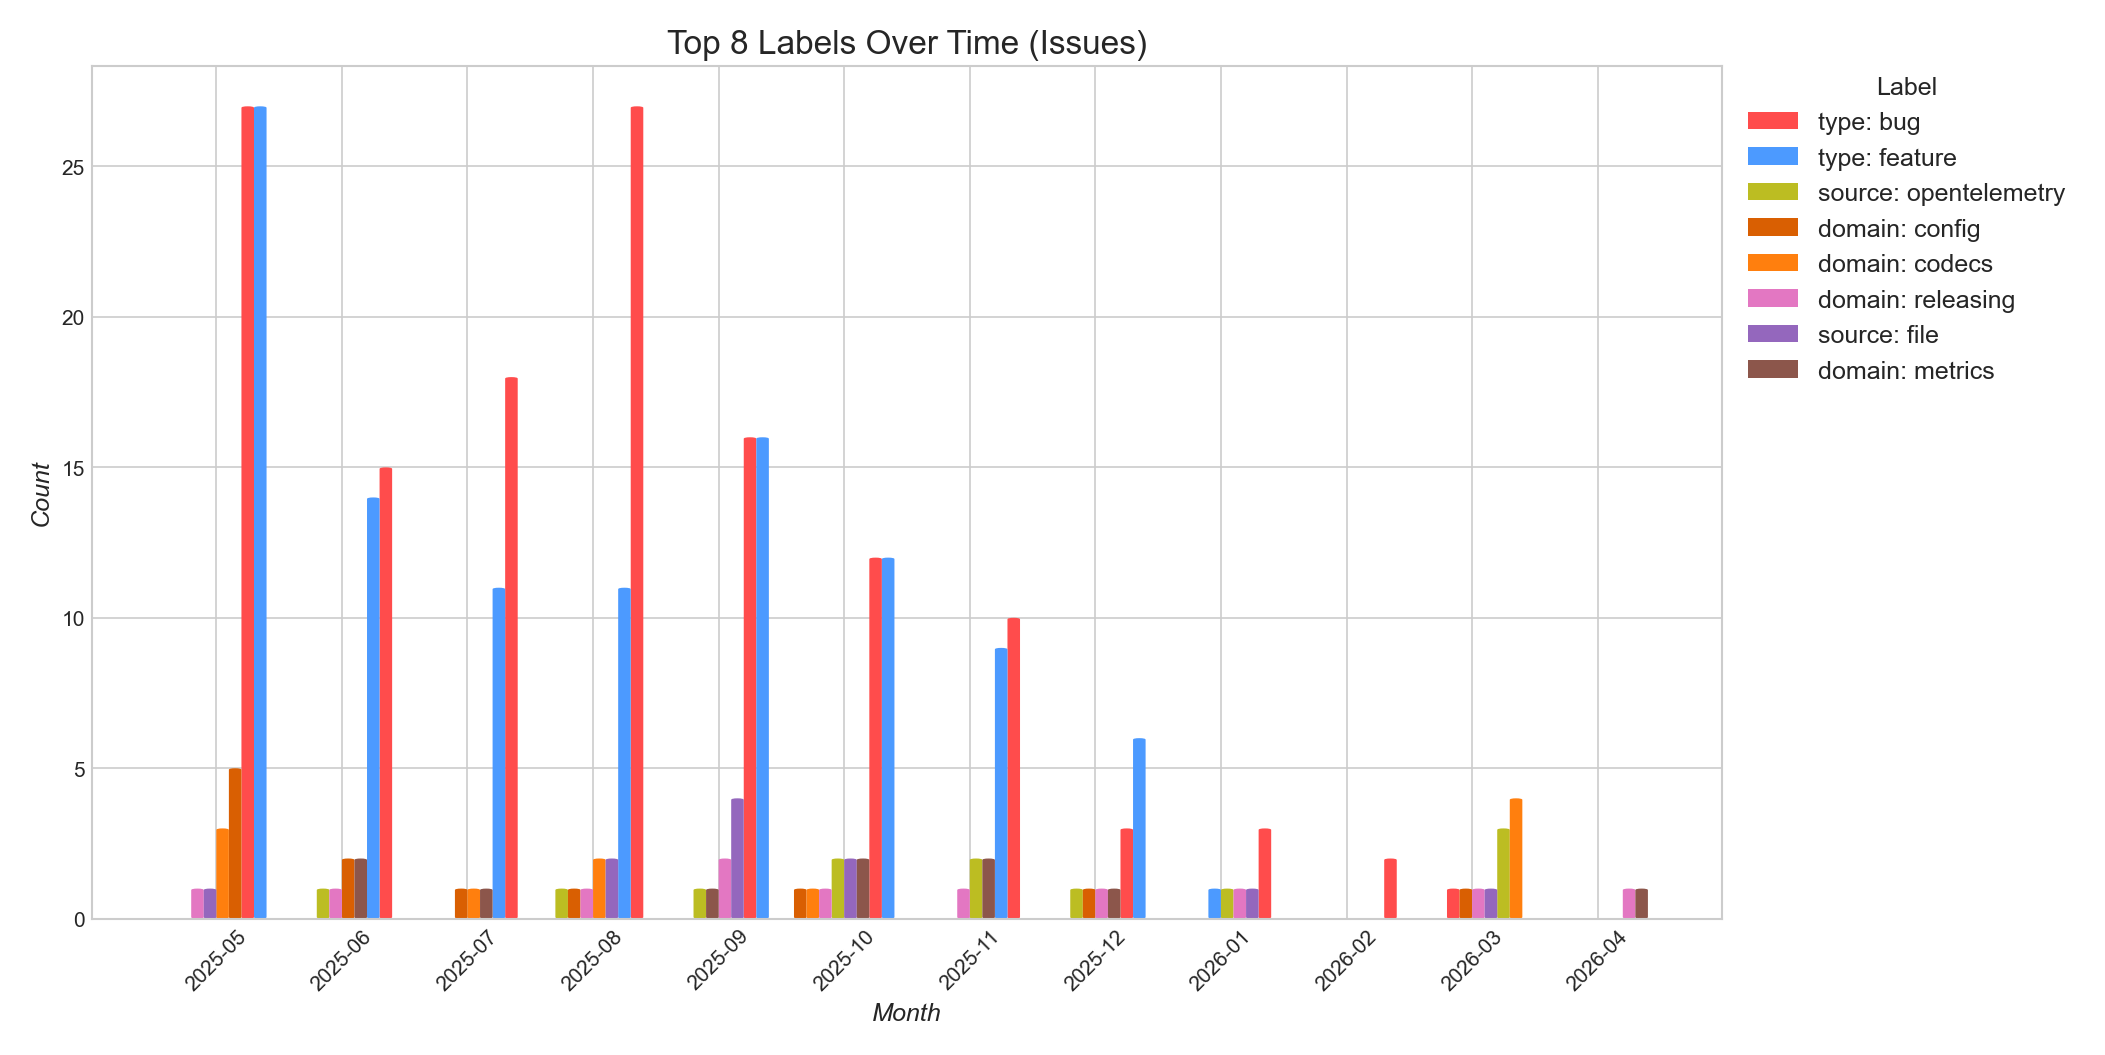
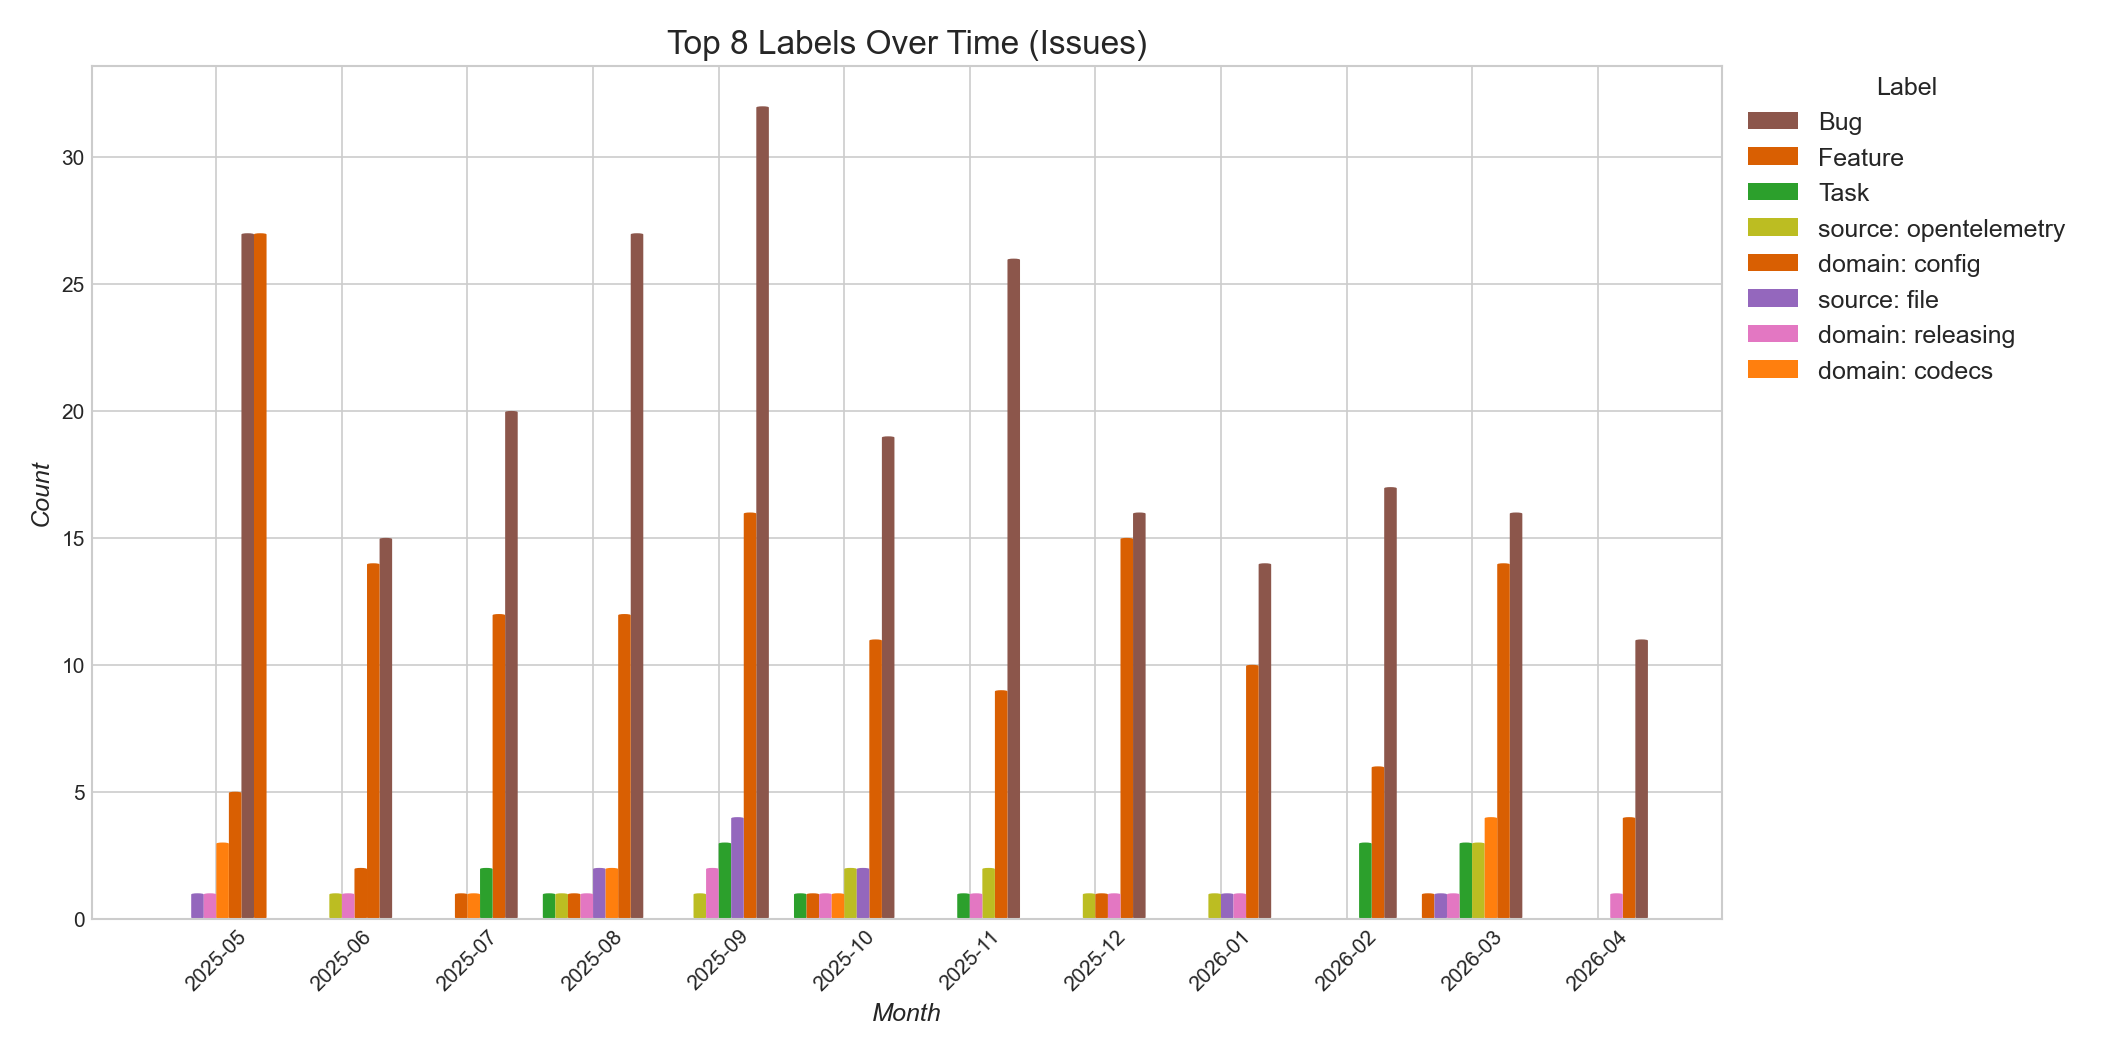
Handle GitHub issue type field alongside legacy type labels
When repos migrate from the \"type: bug\" label to the GitHub native
issue type field (\"Bug\"), both forms now count correctly without
double-counting issues that have both set simultaneously.

- generate_summaries: export_monthly_summary, export_label_breakdown,
  and export_label_timeseries all use a three-way UNION that:
  (1) includes all labels for issues without an issue_type,
  (2) includes labels for typed issues EXCEPT the type-equivalent label
      (matched via lower(label) = 'type: ' || lower(issue_type)),
  (3) includes the issue_type itself as a virtual label.
- plot.py: plot_monthly_summary_basic sums all TYPE_OVERLAYS candidates
  (e.g. \"type: bug\" + \"Bug\") instead of picking the first match,
  covering the transition period when both columns exist in the CSV.

Regenerated images for vector, vrl, and quickwit.

diff --git a/src/commands/generate_summaries.rs b/src/commands/generate_summaries.rs
@@ -75,13 +75,30 @@ fn export_monthly_summary(
     let current_month = Utc::now().format("%Y-%m").to_string();
     eprintln!("Warning: excluding current incomplete month ({current_month}) from monthly summary for {table}");
 
+    // When issue_type is set on an issue, prefer it over a matching "type: <x>" label
+    // to avoid double-counting when both are set on the same issue.
+    let has_issue_type = conn
+        .prepare(&format!("SELECT issue_type FROM {table} LIMIT 0"))
+        .is_ok();
+
+    let wc_label = if has_issue_type {
+        let cond = format!(
+            "({table}.issue_type IS NULL \
+             OR (lower(labels.name) != lower({table}.issue_type) \
+             AND lower(labels.name) != 'type: ' || lower({table}.issue_type)))"
+        );
+        build_where(table, &[cond.as_str()])
+    } else {
+        build_where(table, &[])
+    };
+
     let label_names: Vec<String> = {
         let label_query = format!(
             "SELECT DISTINCT labels.name
              FROM issue_labels
              JOIN labels ON labels.id = issue_labels.label_id
              JOIN {table} ON {table}.id = issue_labels.issue_id
-             {wc}
+             {wc_label}
              ORDER BY labels.name"
         );
         let mut stmt = conn.prepare(&label_query)?;
@@ -101,9 +118,6 @@ fn export_monthly_summary(
         format!(",\n            {label_columns_sql}")
     };
 
-    let has_issue_type = conn
-        .prepare(&format!("SELECT issue_type FROM {table} LIMIT 0"))
-        .is_ok();
     let issue_type_names: Vec<String> = if has_issue_type {
         let type_wc = build_where(table, &["issue_type IS NOT NULL"]);
         let mut stmt = conn.prepare(&format!(
@@ -144,7 +158,7 @@ fn export_monthly_summary(
             FROM issue_labels
             JOIN labels ON labels.id = issue_labels.label_id
             JOIN {table} ON {table}.id = issue_labels.issue_id
-            {wc}
+            {wc_label}
         )
         SELECT
             e.month,
@@ -171,16 +185,51 @@ fn export_label_breakdown(
     config: &Config,
     table: &str,
 ) -> Result<()> {
-    let wc = build_where(table, &[]);
-    let query = format!(
-        "SELECT labels.name AS label_name, COUNT(*) AS count
-         FROM issue_labels
-         JOIN labels ON labels.id = issue_labels.label_id
-         JOIN {table} ON {table}.id = issue_labels.issue_id
-         {wc}
-         GROUP BY labels.name
-         ORDER BY count DESC"
-    );
+    let has_issue_type = conn
+        .prepare(&format!("SELECT issue_type FROM {table} LIMIT 0"))
+        .is_ok();
+
+    let query = if !has_issue_type {
+        let wc = build_where(table, &[]);
+        format!(
+            "SELECT labels.name AS label_name, COUNT(*) AS count
+             FROM issue_labels
+             JOIN labels ON labels.id = issue_labels.label_id
+             JOIN {table} ON {table}.id = issue_labels.issue_id
+             {wc}
+             GROUP BY labels.name
+             ORDER BY count DESC"
+        )
+    } else {
+        let draft_and = if table == "pull_requests" { "AND is_draft = 0" } else { "" };
+        format!(
+            "SELECT label_name, SUM(count) AS count FROM (
+                 SELECT labels.name AS label_name, COUNT(*) AS count
+                 FROM {table}
+                 JOIN issue_labels ON {table}.id = issue_labels.issue_id
+                 JOIN labels ON labels.id = issue_labels.label_id
+                 WHERE {table}.issue_type IS NULL {draft_and}
+                 GROUP BY labels.name
+                 UNION ALL
+                 SELECT labels.name AS label_name, COUNT(*) AS count
+                 FROM {table}
+                 JOIN issue_labels ON {table}.id = issue_labels.issue_id
+                 JOIN labels ON labels.id = issue_labels.label_id
+                 WHERE {table}.issue_type IS NOT NULL {draft_and}
+                 AND lower(labels.name) != lower({table}.issue_type)
+                 AND lower(labels.name) != 'type: ' || lower({table}.issue_type)
+                 GROUP BY labels.name
+                 UNION ALL
+                 SELECT issue_type AS label_name, COUNT(*) AS count
+                 FROM {table}
+                 WHERE issue_type IS NOT NULL {draft_and}
+                 GROUP BY issue_type
+             )
+             GROUP BY label_name
+             ORDER BY count DESC"
+        )
+    };
+
     write_query_to_csv(
         conn,
         &query,
@@ -195,16 +244,51 @@ fn export_label_timeseries(
     config: &Config,
     table: &str,
 ) -> Result<()> {
-    let wc = build_where(table, &[]);
-    let query = format!(
-        "SELECT substr({table}.created_at, 1, 7) AS month, labels.name AS label_name, COUNT(*) AS count
-         FROM {table}
-         JOIN issue_labels ON {table}.id = issue_labels.issue_id
-         JOIN labels ON labels.id = issue_labels.label_id
-         {wc}
-         GROUP BY month, label_name
-         ORDER BY month, count DESC"
-    );
+    let has_issue_type = conn
+        .prepare(&format!("SELECT issue_type FROM {table} LIMIT 0"))
+        .is_ok();
+
+    let query = if !has_issue_type {
+        let wc = build_where(table, &[]);
+        format!(
+            "SELECT substr({table}.created_at, 1, 7) AS month, labels.name AS label_name, COUNT(*) AS count
+             FROM {table}
+             JOIN issue_labels ON {table}.id = issue_labels.issue_id
+             JOIN labels ON labels.id = issue_labels.label_id
+             {wc}
+             GROUP BY month, label_name
+             ORDER BY month, count DESC"
+        )
+    } else {
+        let draft_and = if table == "pull_requests" { "AND is_draft = 0" } else { "" };
+        format!(
+            "SELECT month, label_name, SUM(count) AS count FROM (
+                 SELECT substr({table}.created_at, 1, 7) AS month, labels.name AS label_name, COUNT(*) AS count
+                 FROM {table}
+                 JOIN issue_labels ON {table}.id = issue_labels.issue_id
+                 JOIN labels ON labels.id = issue_labels.label_id
+                 WHERE {table}.issue_type IS NULL {draft_and}
+                 GROUP BY month, labels.name
+                 UNION ALL
+                 SELECT substr({table}.created_at, 1, 7) AS month, labels.name AS label_name, COUNT(*) AS count
+                 FROM {table}
+                 JOIN issue_labels ON {table}.id = issue_labels.issue_id
+                 JOIN labels ON labels.id = issue_labels.label_id
+                 WHERE {table}.issue_type IS NOT NULL {draft_and}
+                 AND lower(labels.name) != lower({table}.issue_type)
+                 AND lower(labels.name) != 'type: ' || lower({table}.issue_type)
+                 GROUP BY month, labels.name
+                 UNION ALL
+                 SELECT substr(created_at, 1, 7) AS month, issue_type AS label_name, COUNT(*) AS count
+                 FROM {table}
+                 WHERE issue_type IS NOT NULL {draft_and}
+                 GROUP BY month, issue_type
+             )
+             GROUP BY month, label_name
+             ORDER BY month, count DESC"
+        )
+    };
+
     write_query_to_csv(
         conn,
         &query,

diff --git a/scripts/util/plot.py b/scripts/util/plot.py
@@ -331,11 +331,13 @@ def plot_monthly_summary_basic(path, table, output_path, start_date=None):
                  linewidth=3,
                  marker='o')
         for display_label, color, candidates in TYPE_OVERLAYS:
-            col = next((c for c in candidates if c in df.columns), None)
-            if col is not None:
-                plt.plot(df["month"], df[col],
-                         label=display_label, color=color,
-                         linewidth=2, linestyle="--")
+            matching = [c for c in candidates if c in df.columns]
+            if not matching:
+                continue
+            combined = df[matching].sum(axis=1)
+            plt.plot(df["month"], combined,
+                     label=display_label, color=color,
+                     linewidth=2, linestyle="--")
 
         plt.title(f"Monthly GitHub Trends ({pretty_table(table)})", fontsize=16)
         ax = plt.gca()
